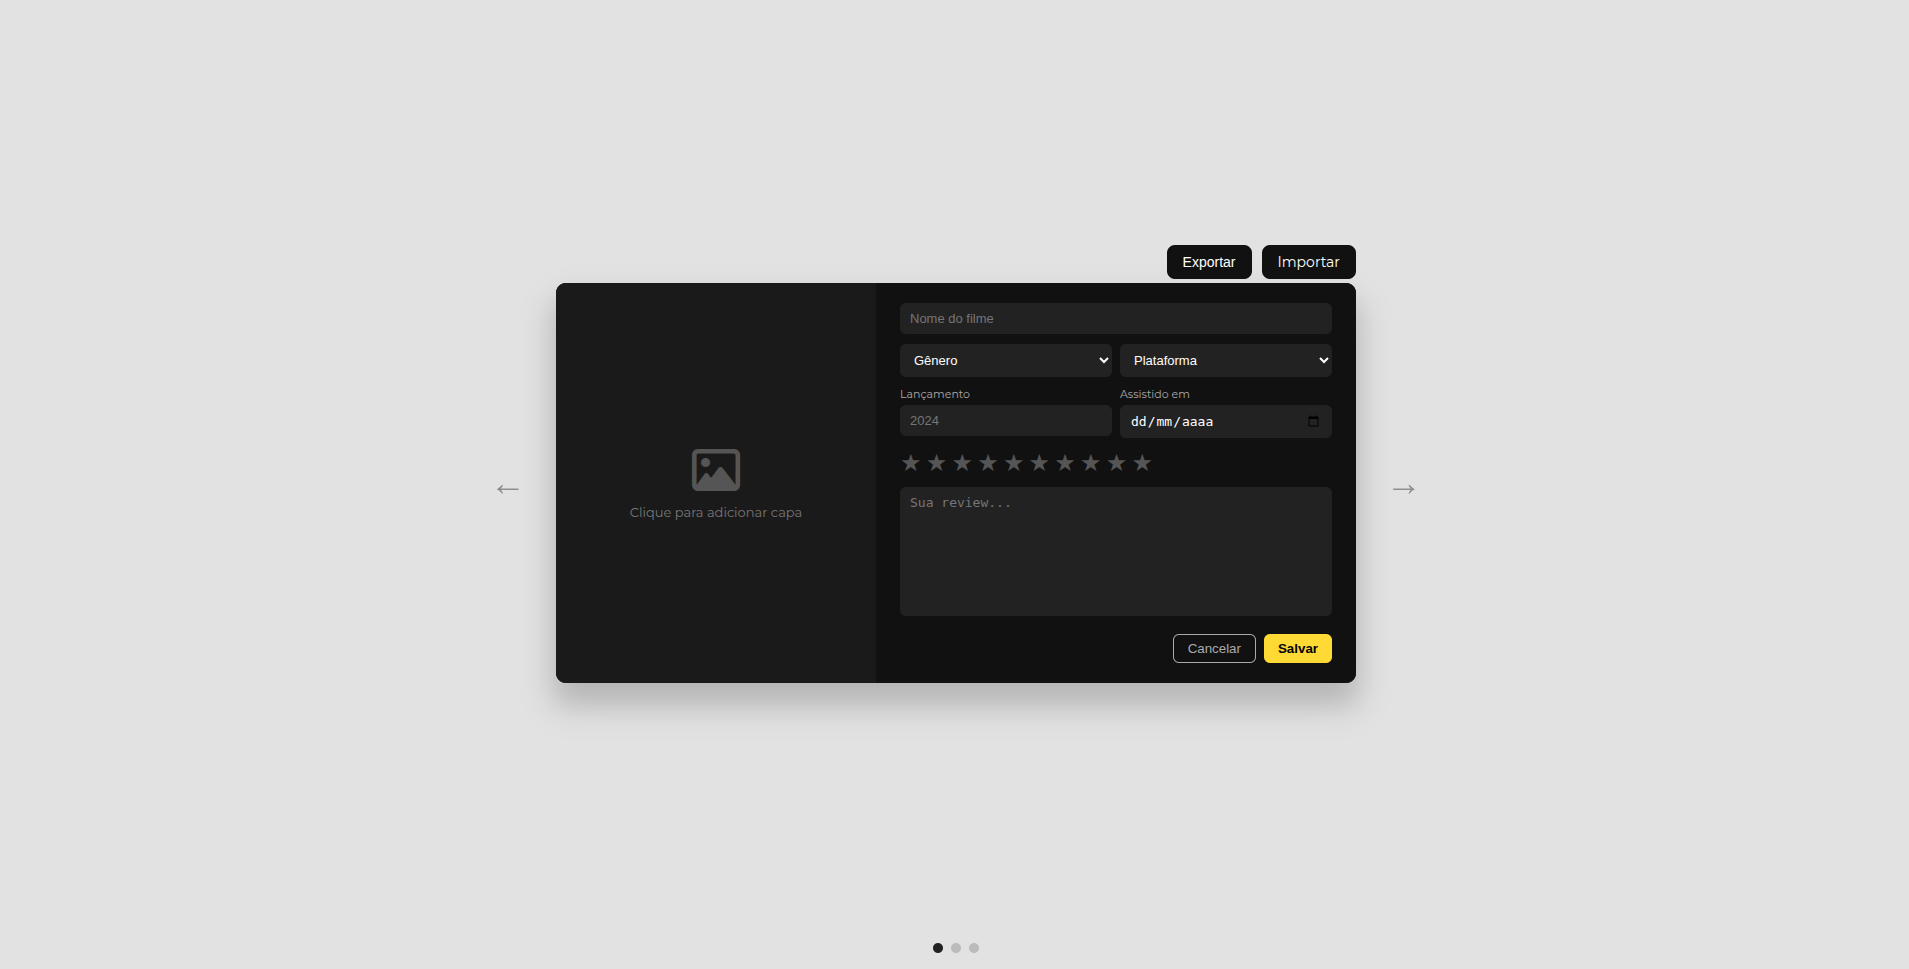
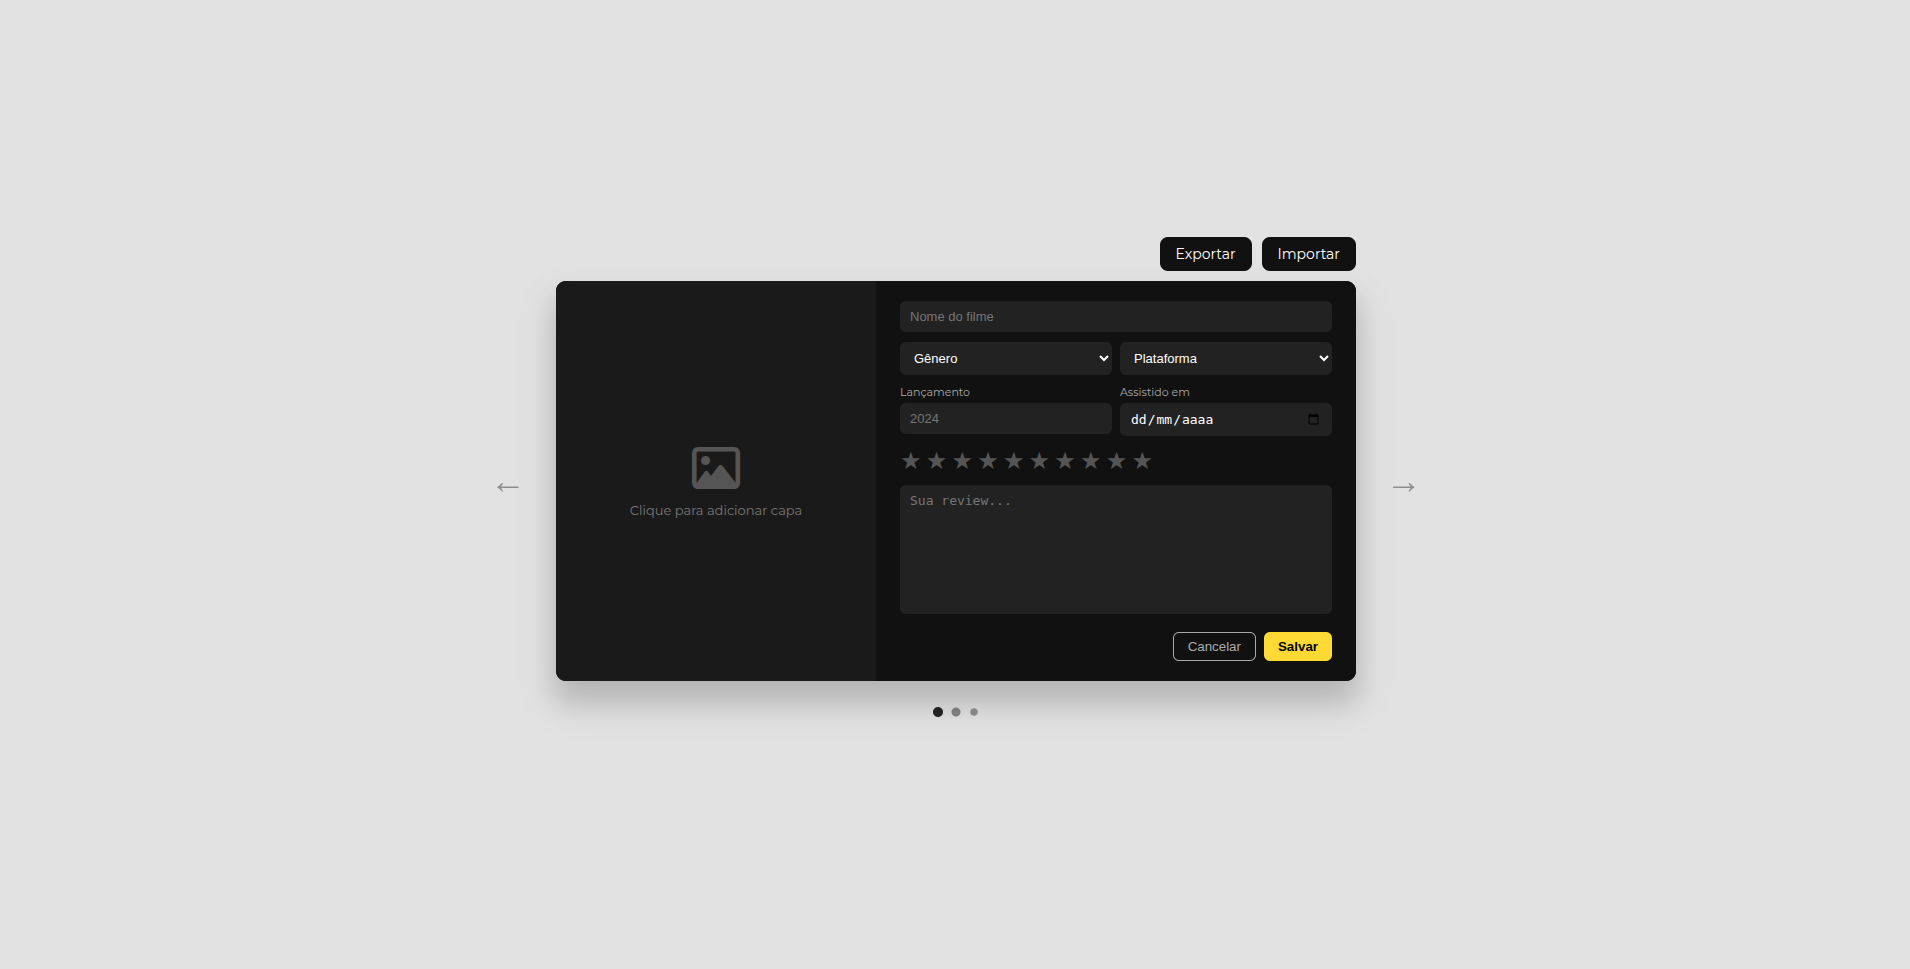
update: dots and images

diff --git a/static/main.js b/static/main.js
@@ -29,13 +29,28 @@ function prevSlide() {
 function updateDots() {
     const dots = document.getElementById("dots");
     const cards = getCards();
+    const total = cards.length;
     dots.innerHTML = "";
-    cards.forEach((_, i) => {
+
+    const visible = 5;
+    const half = Math.floor(visible / 2);
+
+    let start = currentIndex - half;
+    let end = currentIndex + half;
+
+    if (start < 0) { start = 0; end = Math.min(visible - 1, total - 1); }
+    if (end >= total) { end = total - 1; start = Math.max(0, end - visible + 1); }
+
+    for (let i = start; i <= end; i++) {
         const dot = document.createElement("div");
+        const distance = Math.abs(i - currentIndex);
+
         dot.className = "dot" + (i === currentIndex ? " active" : "");
+        dot.style.opacity = distance === 0 ? "1" : distance === 1 ? "0.8" : "0.7";
+        dot.style.transform = `scale(${distance === 0 ? 1 : distance === 1 ? 0.9 : 0.75})`;
         dot.onclick = () => { currentIndex = i; showSlide(i); };
         dots.appendChild(dot);
-    });
+    }
 }
 
 // ————— FORMULÁRIO —————

diff --git a/static/style.css b/static/style.css
@@ -20,8 +20,8 @@ body {
 .slider-container {
     display: flex;
     flex-direction: column;
-    align-items: flex-end;
-    gap: 4px;
+    align-items: center;
+    gap: 10px;
     flex: 1;
     justify-content: center;
 }
@@ -29,6 +29,7 @@ body {
 .slider-actions {
     display: flex;
     gap: 10px;
+    align-self: flex-end;
     padding-right: 76px;
 }
 
@@ -41,6 +42,9 @@ body {
     border-radius: 8px;
     cursor: pointer;
     font-size: 14px;
+    font-family: 'Montserrat', sans-serif;
+    font-weight: normal;
+    display: inline-block;
 }
 
 .slider-wrapper {
@@ -398,7 +402,7 @@ body {
 /* Dots */
 .dots {
     padding: 16px;
-    display: flex;
+    display:flex;
     gap: 8px;
 }
 
@@ -406,15 +410,11 @@ body {
     width: 10px;
     height: 10px;
     border-radius: 50%;
-    background: #bbb;
+    background: #666666;
     cursor: pointer;
-    transition: background 0.2s;
+    transition: opacity 0.3s, transform 0.3s, background 0.2s;
 }
 
 .dot.active {
     background: #222222;
-}
-
-.date-field input[type="number"] {
-    -moz-appearance: textfield;
 }

diff --git a/templates/index.html b/templates/index.html
@@ -98,9 +98,8 @@
 
             <button class="arrow right-arrow" onclick="nextSlide()">&#8594;</button>
         </div>
+        <div class="dots" id="dots"></div>
     </div>
-
-    <div class="dots" id="dots"></div>
 
     <script src="/static/main.js"></script>
 </body>

diff --git a/README.md b/README.md
@@ -34,7 +34,7 @@ Qualquer pessoa que assista filmes e queira manter um registro pessoal simples, 
 ![Watchlist Tracker](preview/watchlist-0.png)
 ![Watchlist Tracker](preview/watchlist-1.png)
 ![Watchlist Tracker](preview/watchlist-form.png)
-![Watchlist Tracker](preview/test.png)
+![Watchlist Tracker](preview/tests.png)
 
 ## Tecnologias
 
